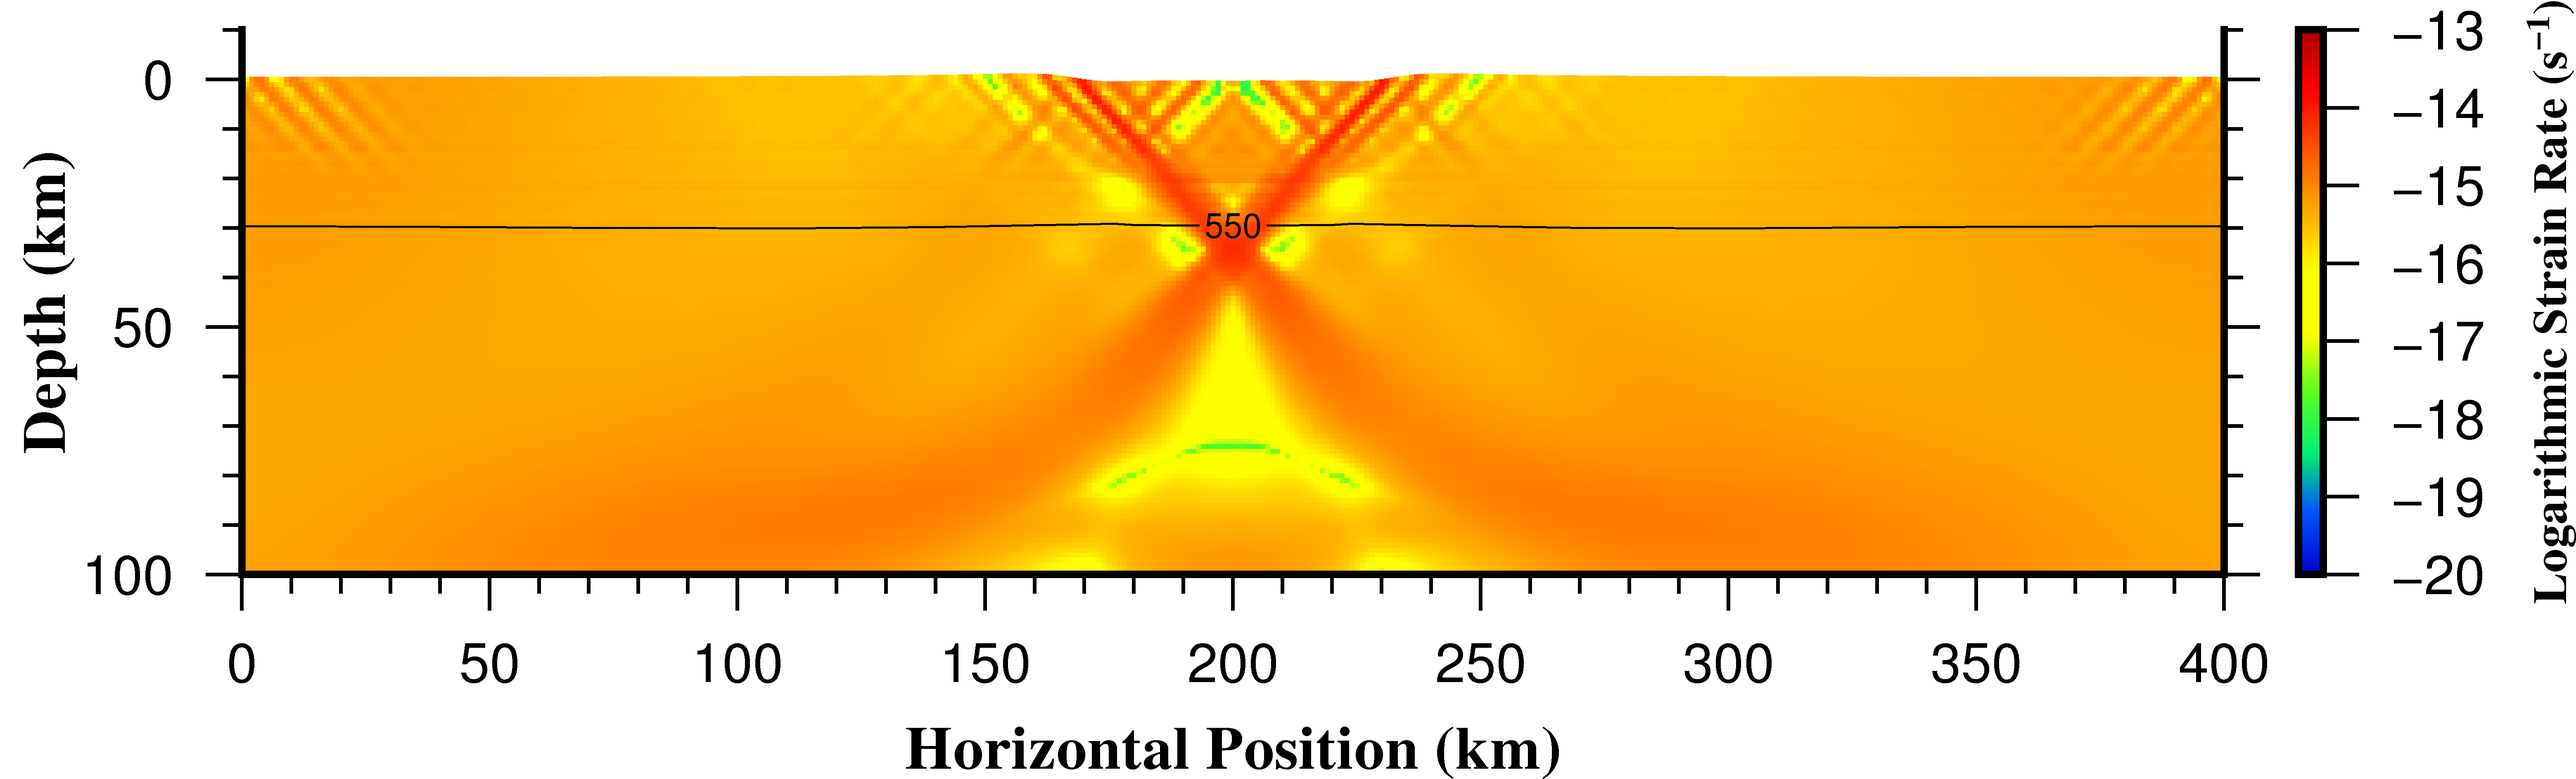
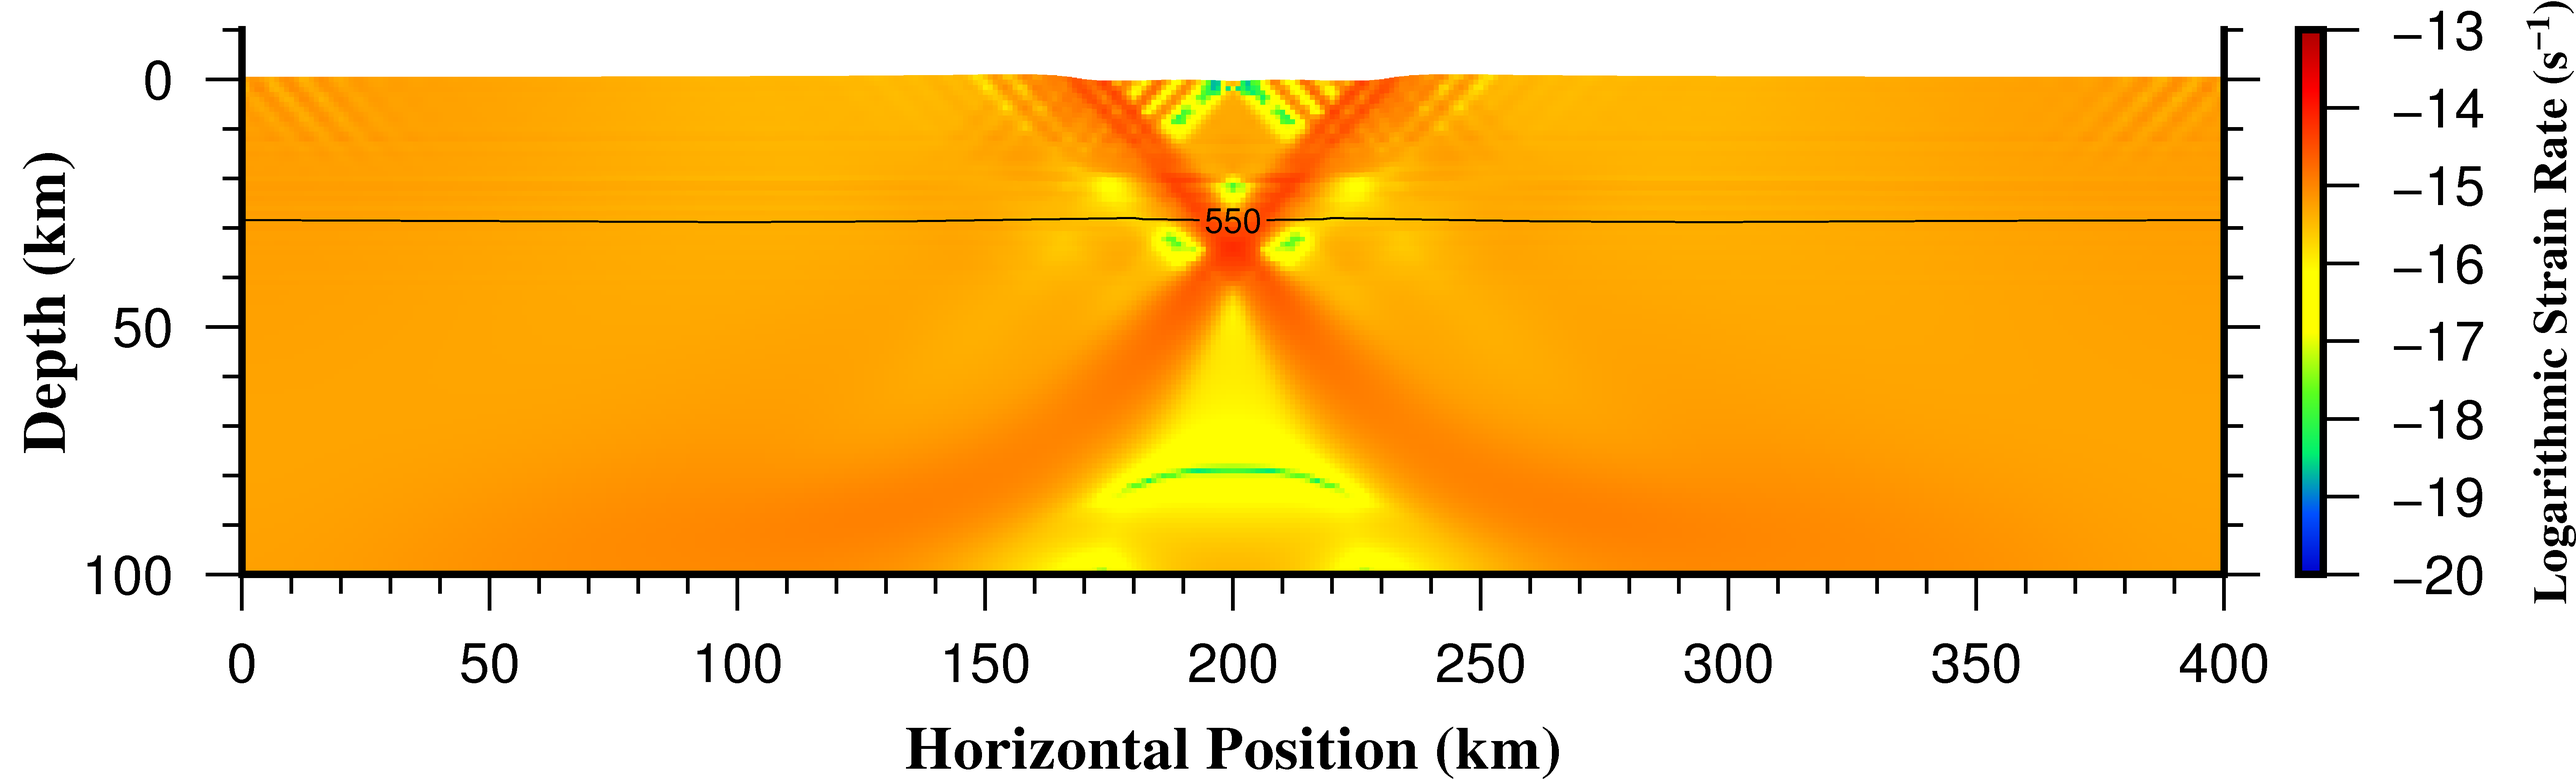
Update continental extension cookbook

diff --git a/doc/manual/manual.tex b/doc/manual/manual.tex
@@ -7909,7 +7909,7 @@ The 2D Cartesian model spans 400 (x) by 100 (y) km and has a finite element grid
 \lstinputlisting[language=prmfile]{cookbooks/continental_extension/continental_extension_geometry_mesh.prm}
 
 
-Similar to the crustal deformation examples above, this model contains a free surface. Deformation is driven by constant horizontal ($x$-component) velocities (0.25 cm/yr) on the side boundaries ($y$-velocity component unconstrained), while the bottom boundary has vertical inflow to balance the lateral outflow. The top, and bottom boundaries have fixed temperatures, while the sides are insulating.
+Similar to the crustal deformation examples above, this model contains a free surface. Deformation is driven by constant horizontal ($x$-component) velocities (0.25 cm/yr) on the side boundaries ($y$-velocity component unconstrained), while the bottom boundary has vertical inflow to balance the lateral outflow. The top, and bottom boundaries have fixed temperatures, while the sides are insulating. The bottom boundary is also assigned a fixed composition, while the top and sides are unconstrained.
 
 \lstinputlisting[language=prmfile]{cookbooks/continental_extension/continental_extension_boundary_conditions.prm}
 
@@ -7945,17 +7945,17 @@ as temperature variations associated with lithospheric thinning exert a first-or
 \begin{figure}
 \centering
 \includegraphics[width=\textwidth]{cookbooks/continental_extension/continental_extension_cookbook_strainrate_5e6yr.png}
-\caption{\it Strain rate ($s^{-1}$) after 5e6 years of extension. The black line marks the 500 $^{o}C$ isotherm.} 
+\caption{\it Strain rate ($s^{-1}$) after 5e6 years of extension. The black line marks the 550 $^{o}C$ isotherm.} 
 \label{fig:continental_extension_cookbook_strainrate_5e6yr}
 \end{figure}
 \begin{figure}
 \includegraphics[width=\textwidth]{cookbooks/continental_extension/continental_extension_cookbook_composition_5e6yr.png}
-\caption{\it Compositional field after 5e6 years of extension. The black line marks the 500 $^{o}C$ isotherm.} 
+\caption{\it Compositional field after 5e6 years of extension. The black line marks the 550 $^{o}C$ isotherm.} 
 \label{fig:continental_extension_cookbook_composition_5e6yr}
 \end{figure}
 \begin{figure}
 \includegraphics[width=\textwidth]{cookbooks/continental_extension/continental_extension_cookbook_strainrate_highres_10e6yr.png}
-\caption{\it Strain rate($s^{-1}$) after 10e6 years of extension. The black line marks the 500 $^{o}C$ isotherm. The numerical resolution (1 km) is double that of the previous model.} 
+\caption{\it Strain rate($s^{-1}$) after 10e6 years of extension. The black line marks the 550 $^{o}C$ isotherm. The numerical resolution (1 km) is double that of the previous model.} 
 \label{fig:continental_extension_cookbook_strainrate_highres_10e6yr}
 \end{figure}
  
